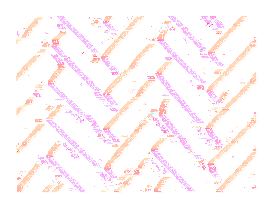
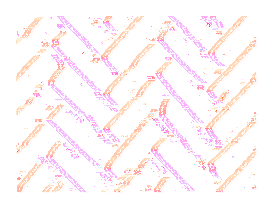
Fix W,H swap issue

diff --git a/tegbp.cpp b/tegbp.cpp
@@ -21,11 +21,11 @@ int dirc[2][10];
 int map_set_dirc[10];
 
 // self:0  obs:1  from up:2 from down:3  from left:4: from down:5
-int sub2ind_sae(uint16 x, uint16 y, int dir, int W, int H){
+int sub2ind_sae(uint16 x, uint16 y, int dir, int H, int W){
 	return (x+dirc[0][dir] + W*(y+dirc[1][dir]));
 }
 // self:0  obs:1  from up:2 from down:3  from left:4: from down:5
-int sub2ind(uint16 x, uint16 y, int node_index, int dir, int W, int H){
+int sub2ind(uint16 x, uint16 y, int node_index, int dir, int H, int W){
 	return NOD_DIM*(x+dirc[0][dir] + W*(y+dirc[1][dir]))+node_index*STS_DIM;
 }
 
@@ -51,26 +51,25 @@ V2D belief_vec_to_mu(V6D belief)
 	return Lam_0.inverse() * eta;
 }
 
-V6D update_state(double * node, int* sae, uint16 x, uint16 y, int t,  int W, int H)
+V6D update_state(double * node, int* sae, uint16 x, uint16 y, int t,  int H, int W)
 {
 	V6D belief;
 	V6D msg_from;
-	int ind = sub2ind(x, y, 1, 0, W, H);
+	int ind = sub2ind(x, y, IDX_OBS, 0, H, W);
 	get_state(node, ind, &belief); // ind of obs node, node_index, dir 
 
 	for(int dir=2;dir<2+NEIGHBOR;dir++){
-		if ((t - sae[sub2ind_sae(x, y, dir, W, H)]) < DT_ACT){
-			get_state(node, sub2ind(x, y, dir+1, 0, W, H), &msg_from);
+		if ((t - sae[sub2ind_sae(x, y, dir, H, W)]) < DT_ACT){
+			get_state(node, sub2ind(x, y, dir+1, 0, H, W), &msg_from);
 			belief = belief + msg_from;
 		}
 	}
 
 	V2D mu = belief_vec_to_mu(belief);
 
-    // ここ最適化希望
     // beliefはメッセージ送信に使う
     V6D self;
-    ind = sub2ind(x, y, 0, 0, W, H); // ind of self node, node_index, dir
+    ind = sub2ind(x, y, IDX_SLF, 0, H, W); // ind of self node, node_index, dir
     get_state(node, ind, &self); //ここは値をセットする？　そのままだと値が反映されてない
 	self.head(2)=mu;
 	set_state(node, ind, &self);
@@ -141,7 +140,7 @@ V6D smoothness_factor(V6D msg_v, V4D state)
 	return msg;
 }
 
-void send_message_4connect(double* node, int* sae, uint16 x, uint16 y, int t, int W, int H, V6D belief)
+void send_message_4connect(double* node, int* sae, uint16 x, uint16 y, int t, int H, int W, V6D belief)
 {
     V4D state;
     V6D self, come, node_to;
@@ -149,54 +148,54 @@ void send_message_4connect(double* node, int* sae, uint16 x, uint16 y, int t, in
     int ind, ind_to, ind_sae;
 
     // get state of self node
-    int ind_self = sub2ind(x, y, 0, 0, W, H); // node_index, dir
+    int ind_self = sub2ind(x, y, 0, 0, H, W); // node_index, dir
     get_state(node, ind_self, &self);
     state(0) = self(0);
     state(1) = self(1);
 
     // variable message
     for(int dir=2; dir<2+NEIGHBOR; dir++){ // 4 direction
-        ind_sae = sub2ind_sae(x, y, dir, W, H);     // 送る方向から来るmassageを確認
+        ind_sae = sub2ind_sae(x, y, dir, H, W);     // 送る方向から来るmassageを確認
         if ((t - sae[ind_sae]) < DT_ACT){           // activeなときはそれを引いておかなければいけない
-            ind = sub2ind(x, y, dir, 0, W, H);      // [dir, 0]
+            ind = sub2ind(x, y, dir, 0, H, W);      // [dir, 0]
             get_state(node, ind, &come);
             msg_v = belief - come;
         }else{
             msg_v = belief;
         }
         // get state of destination node
-        ind_to      = sub2ind(x, y, 0, dir, W, H); // [0, dir]
+        ind_to      = sub2ind(x, y, IDX_OBS, dir, H, W); // [0, dir]
         get_state(node, ind_to, &node_to);
         state(2)    = node_to(0);
         state(3)    = node_to(1);
         // prior factor message
         msg_p       = smoothness_factor(msg_v, state);
-        ind         = sub2ind(x, y, map_set_dirc[dir], dir, W, H); // [?, ?]
+        ind         = sub2ind(x, y, map_set_dirc[dir], dir, H, W); // [?, ?]
         set_state(node, ind, &msg_p);
     }
 }
 
-void message_passing_event(double* node, int* sae, uint16 x, uint16 y, int t, int W, int H) // 多分再帰でかける？ k=1 hopだからいいか
+void message_passing_event(double* node, int* sae, uint16 x, uint16 y, int t, int H, int W) // 多分再帰でかける？ k=1 hopだからいいか
 {
     int ind, ind_sae;
     int x_, y_;
     V6D belief;
 
     // at self node
-    belief = update_state(node, sae, x, y, t, W, H);
-    send_message_4connect(node, sae, x, y, t, W, H, belief);
+    belief = update_state(node, sae, x, y, t, H, W);
+    send_message_4connect(node, sae, x, y, t, H, W, belief);
 
     for(int dir=2; dir<2+NEIGHBOR; dir++){ // 4 direction
-        ind_sae = sub2ind_sae(x, y, dir, W, H);    // active確認
+        ind_sae = sub2ind_sae(x, y, dir, H, W);    // active確認
         if ((t - sae[ind_sae]) < DT_ACT){                   // message passing at neighbor node if active
             x_ = x + dirc[0][dir];
             y_ = y + dirc[1][dir];
             // at self node
-            belief = update_state(node, sae, x_, y_, t, W, H);
-            send_message_4connect(node, sae, x_, y_, t, W, H, belief);
+            belief = update_state(node, sae, x_, y_, t, H, W);
+            send_message_4connect(node, sae, x_, y_, t, H, W, belief);
         }
     }
-	update_state(node, sae, x, y, t, W, H);
+	update_state(node, sae, x, y, t, H, W);
 	return;
 }
 
@@ -219,10 +218,10 @@ void process_batch(mem_pool pool)
 		// printf("(%3.2f, %3.2f) \n",obs_msg(0), obs_msg(1));
 
 		// Set the observation
-		set_state(pool.node, sub2ind(x, y, 1, 0, pool.W, pool.H), &obs_msg);
+		set_state(pool.node, sub2ind(x, y, 1, 0, pool.H, pool.W), &obs_msg);
 
 		// Core of message passing
-		message_passing_event(pool.node, pool.sae, x, y, t, pool.W, pool.H);
+		message_passing_event(pool.node, pool.sae, x, y, t, pool.H, pool.W);
     }
 return;
 }

diff --git a/io.cpp b/io.cpp
@@ -68,7 +68,7 @@ void debug_output(mem_pool pool){
 	for(uint16 y=0;y<pool.H/6;y++){
 		printf("\n");
 		for(uint16 x=0;x<pool.W/6;x++){
-			printf("%04.1f|", pool.node[sub2ind(x, y, 0, 0, pool.W, pool.H)]);
+			printf("%04.1f|", pool.node[sub2ind(x, y, 0, 0, pool.H, pool.W)]);
 		}
 	}
 	printf("done..\n");
@@ -81,8 +81,8 @@ void save_data(mem_pool pool){
 	
 	for(uint16 y=0;y<pool.H;y++)
 		for(uint16 x=0;x<pool.W;x++){
-			fimg[2*(pool.W*y + x)] = pool.node[sub2ind(x, y, 0, 0, pool.W, pool.H)+0];
-			fimg[2*(pool.W*y + x)+1] = pool.node[sub2ind(x, y, 0, 0, pool.W, pool.H)+1];
+			fimg[2*(pool.W*y + x)] = pool.node[sub2ind(x, y, 0, 0, pool.H, pool.W)+0];
+			fimg[2*(pool.W*y + x)+1] = pool.node[sub2ind(x, y, 0, 0, pool.H, pool.W)+1];
 	}
 
     std::ofstream myFile ("result/flo.bin", std::ios::out | std::ios::binary);

diff --git a/tegbp.hpp b/tegbp.hpp
@@ -7,6 +7,10 @@ using namespace Eigen;
 #define NOD_DIM STS_DIM*6
 #define DT_ACT 50000
 
+#define IDX_SLF 0
+#define IDX_OBS 1
+
+
 typedef Matrix<double, 2, 2> M2D;
 typedef Matrix<double, 2, 1> V2D;
 typedef Matrix<double, 4, 4> M4D;
@@ -33,6 +37,6 @@ void debug_output(mem_pool pool);
 void save_data(mem_pool pool);
 void process_batch(mem_pool pool);
 mem_pool initialize(int B, int H, int W);
-int sub2ind(uint16 x, uint16 y, int node_index, int dir, int W, int H);
+int sub2ind(uint16 x, uint16 y, int node_index, int dir, int H, int W);
 
 #endif
